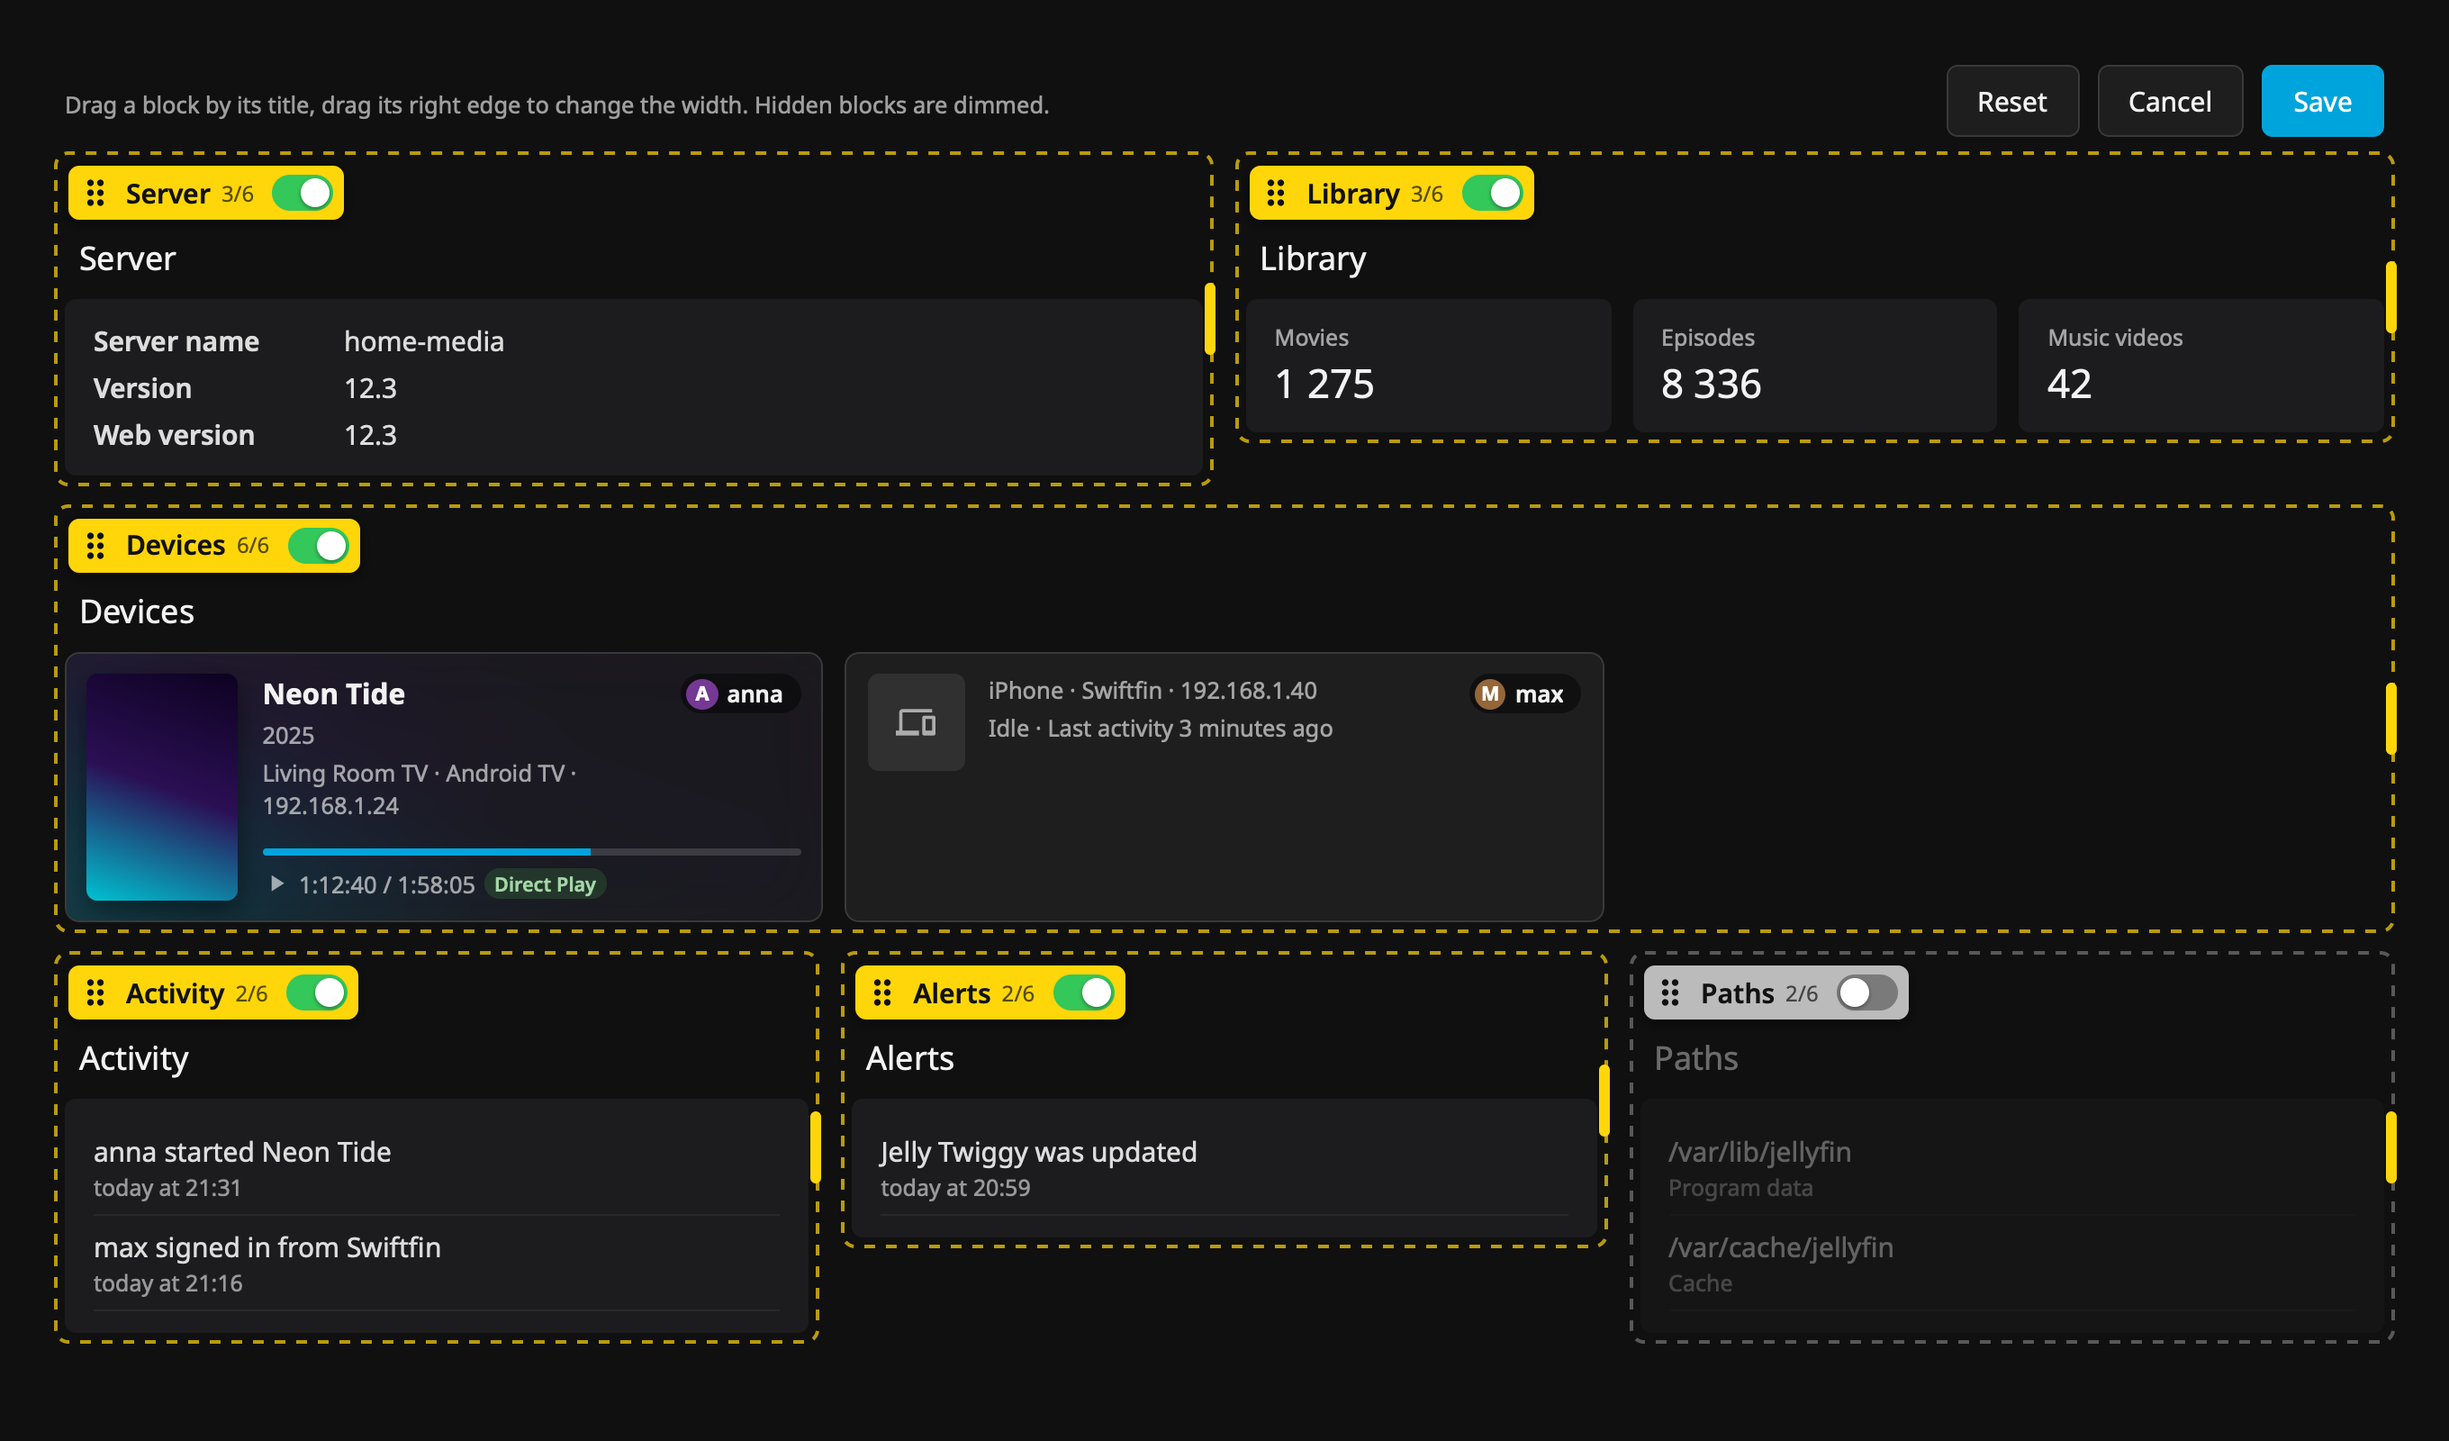
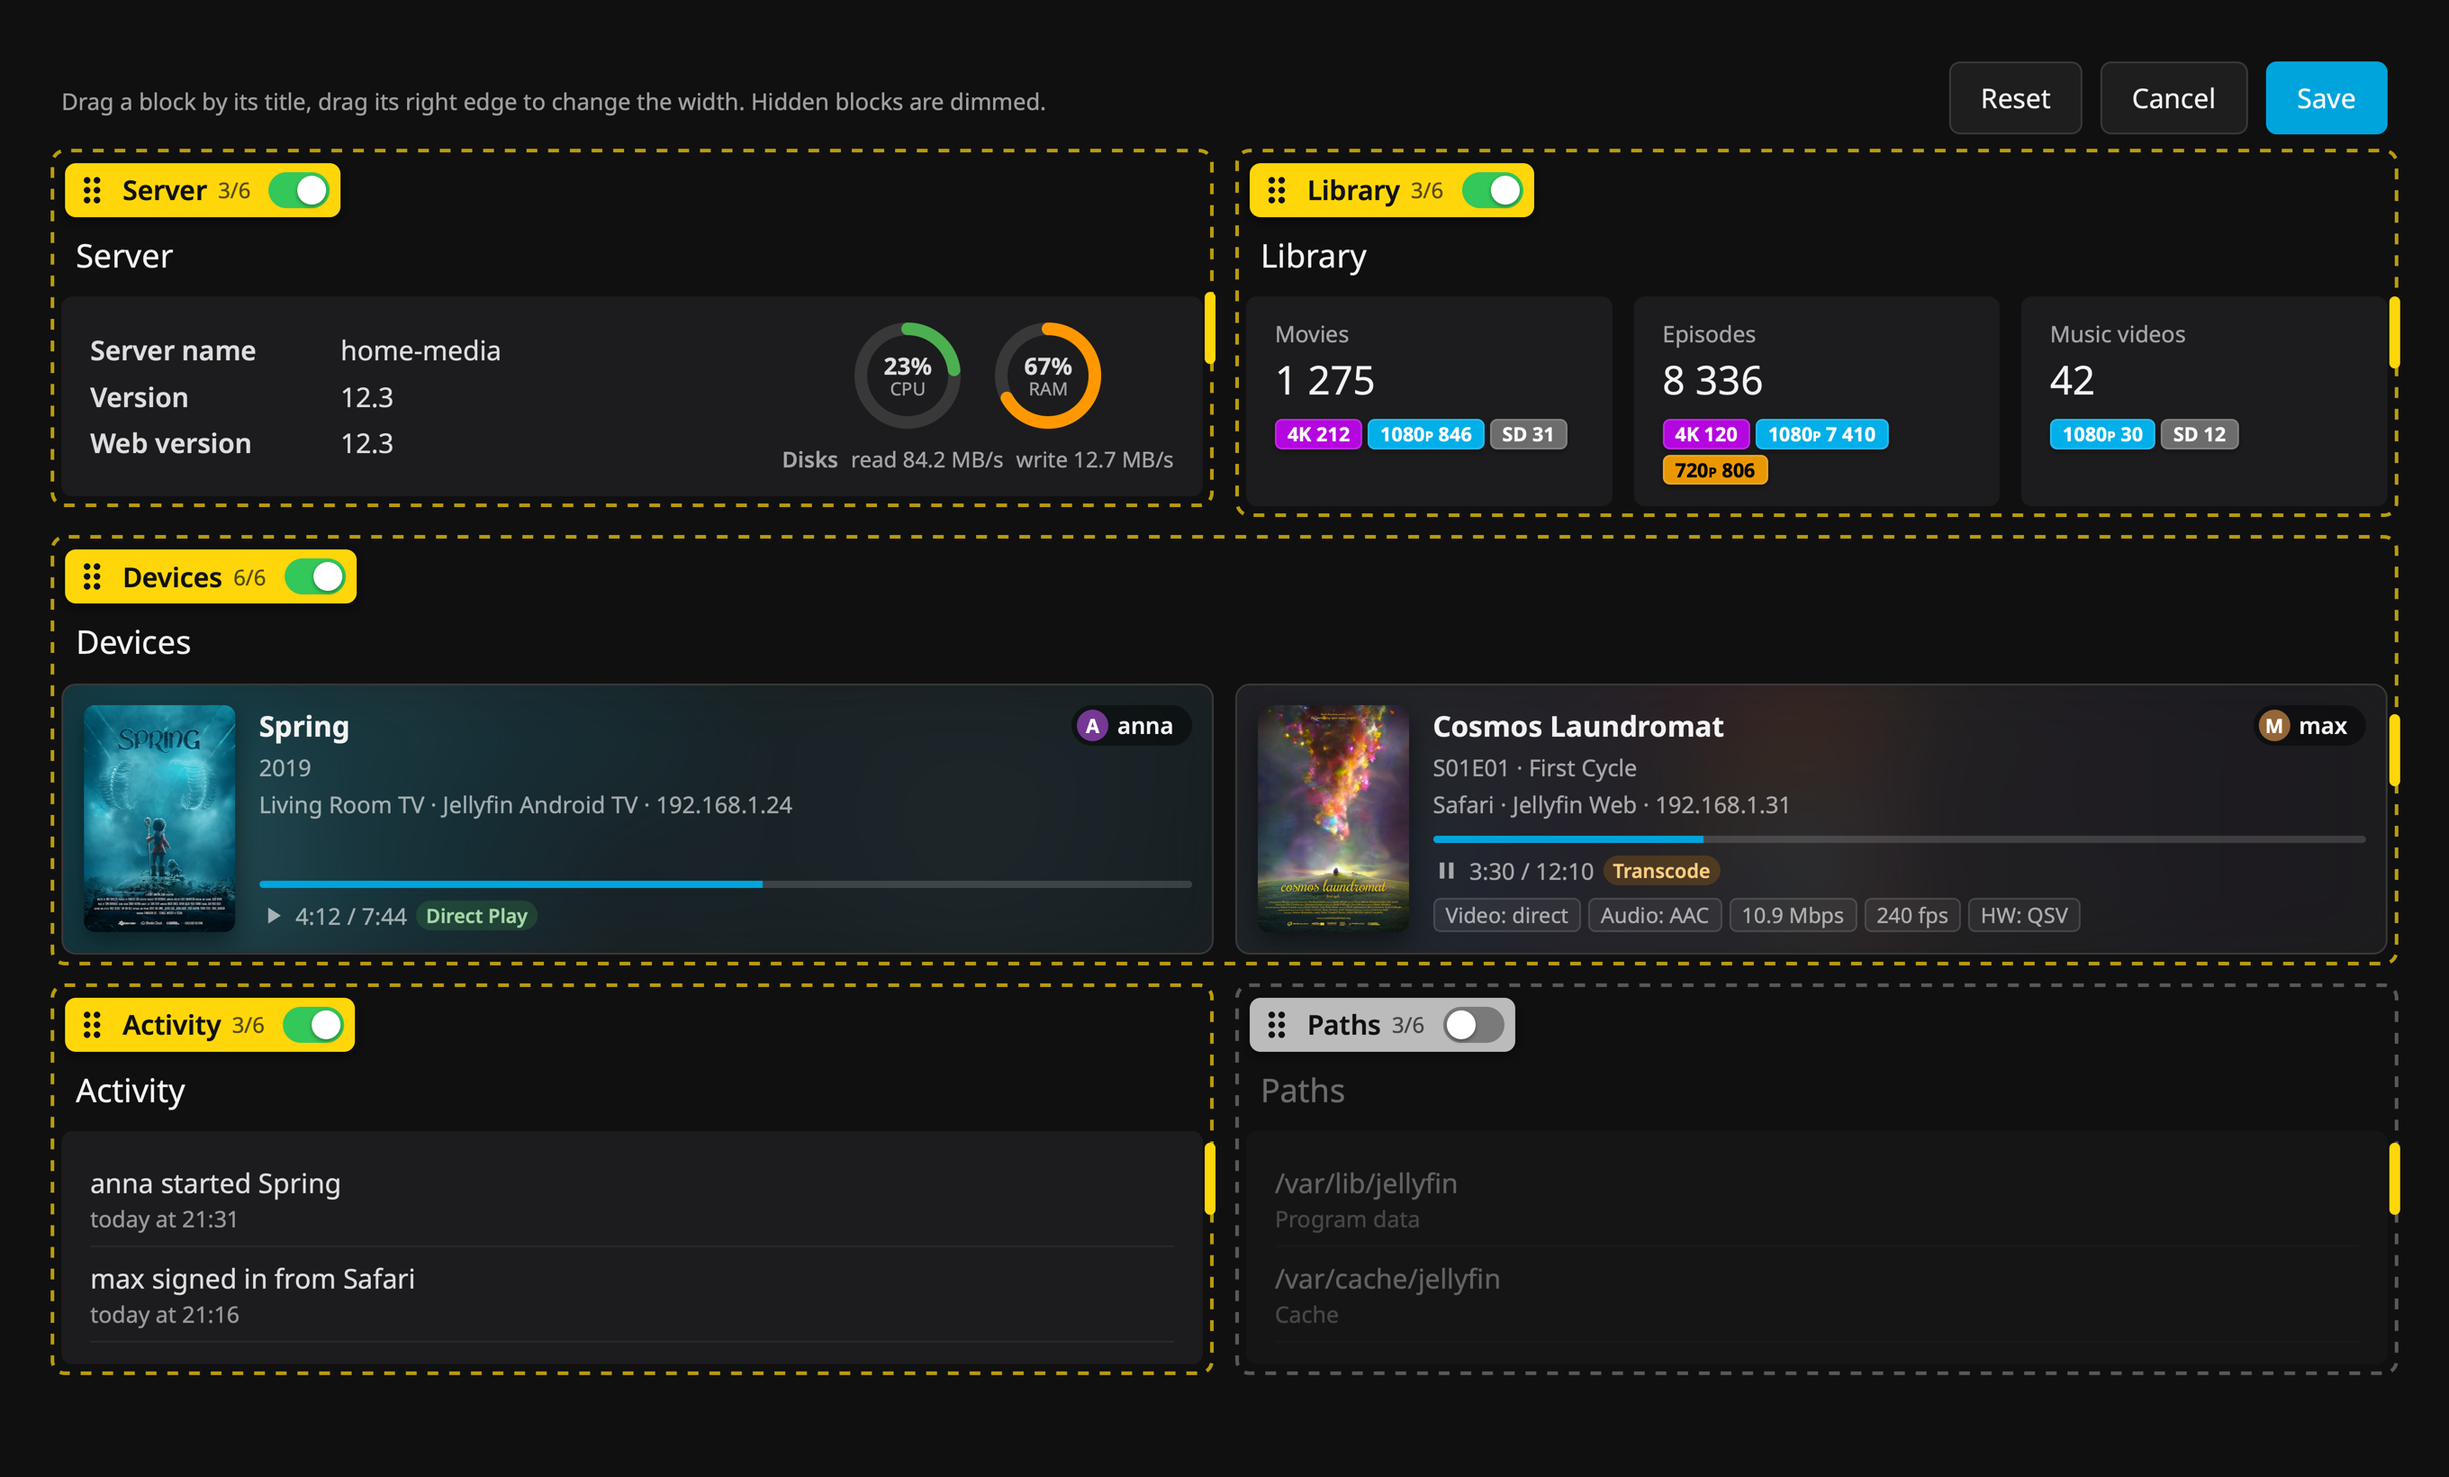
Update previews

diff --git a/README.md b/README.md
@@ -25,21 +25,24 @@ Jelly Twiggy extends the Jellyfin web client with poster badges, playback option
 ## Screenshots
 
 <p align="center">
-  <img src="assets/previews/posters.png" alt="Poster badges">
+  <img src="assets/previews/posters.jpg" alt="Poster badges">
 </p>
 <p align="center">
-  <img src="assets/previews/details.png" width="49%" alt="Item page">
-  <img src="assets/previews/streams.png" width="30%" alt="Active streams">
+  <img src="assets/previews/details.jpg" width="56%" alt="Item page">
+  <img src="assets/previews/streams.png" width="34%" alt="Active streams">
 </p>
 <p align="center">
   <img src="assets/previews/dashboard.png" alt="Dashboard edit mode">
 </p>
 <p align="center">
-  <img src="assets/previews/stats.png" width="62%" alt="Playback statistics">
+  <img src="assets/previews/stats.png" width="58%" alt="Playback statistics">
   <img src="assets/previews/settings.png" width="34%" alt="User settings">
 </p>
+<p align="center">
+  <img src="assets/previews/alphabet.jpg" width="60%" alt="Alphabet picker">
+</p>
 
-*Titles and artwork in the screenshots are made up.*
+*Screenshots use posters of the Blender open movies Big Buck Bunny, Sintel, Tears of Steel, Spring and Cosmos Laundromat (© Blender Foundation, CC BY) and Boris Bilinsky's Metropolis poster (public domain); users and statistics are made up.*
 
 ## Install
 
